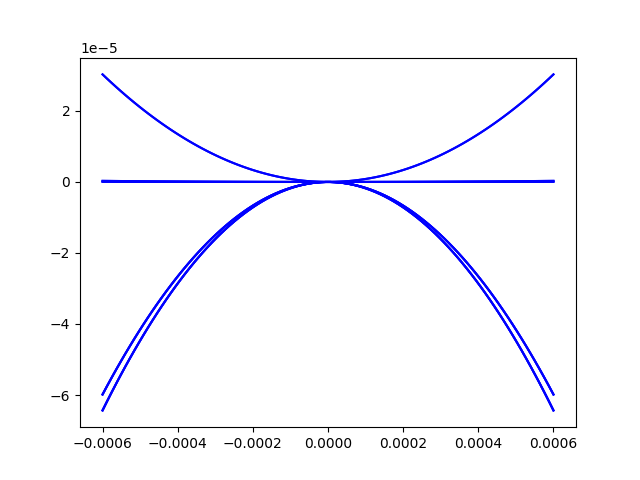
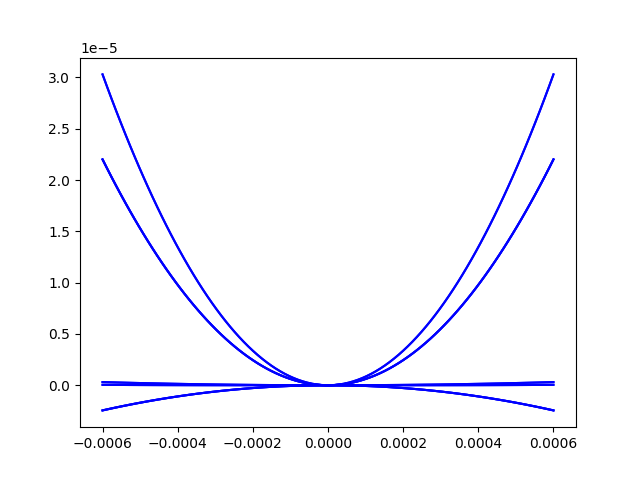
all is computed right excpet non linéarity

diff --git a/main.py b/main.py
@@ -87,7 +87,7 @@ def computeEnergyk_minPart(mechanism, path):
     fig = plt.figure()
     ax = fig.add_subplot(1, 1, 1)
 
-    f = 5.67  # force Preload (force such that minimum k_eq)
+    f = forceMax  # force Preload (force such that minimum k_eq)
     x = np.linspace(rangeMin, rangeMax, 100)  # position
     for part in mechanism:
         y = []

diff --git a/report.md b/report.md
@@ -157,7 +157,6 @@ mu_r=0
 
 
 
-
 ## 3.12 résolution
 
 ![RigidityAsPositionANDPreload12.png](RigidityAsPositionANDPreload12.png)
